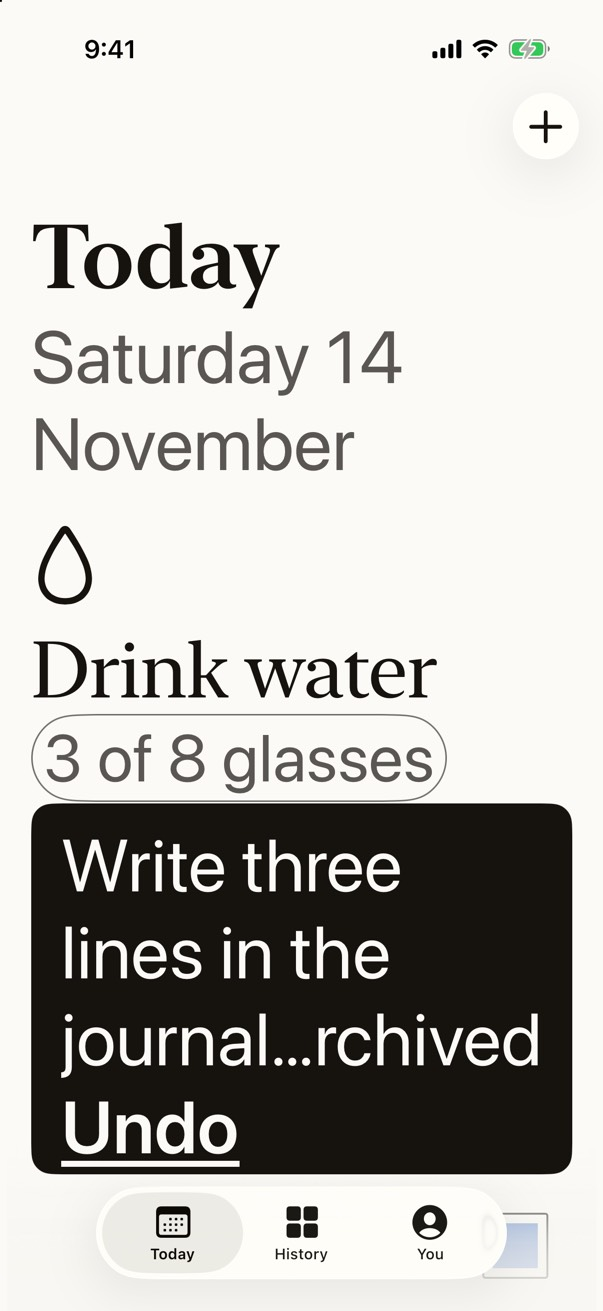
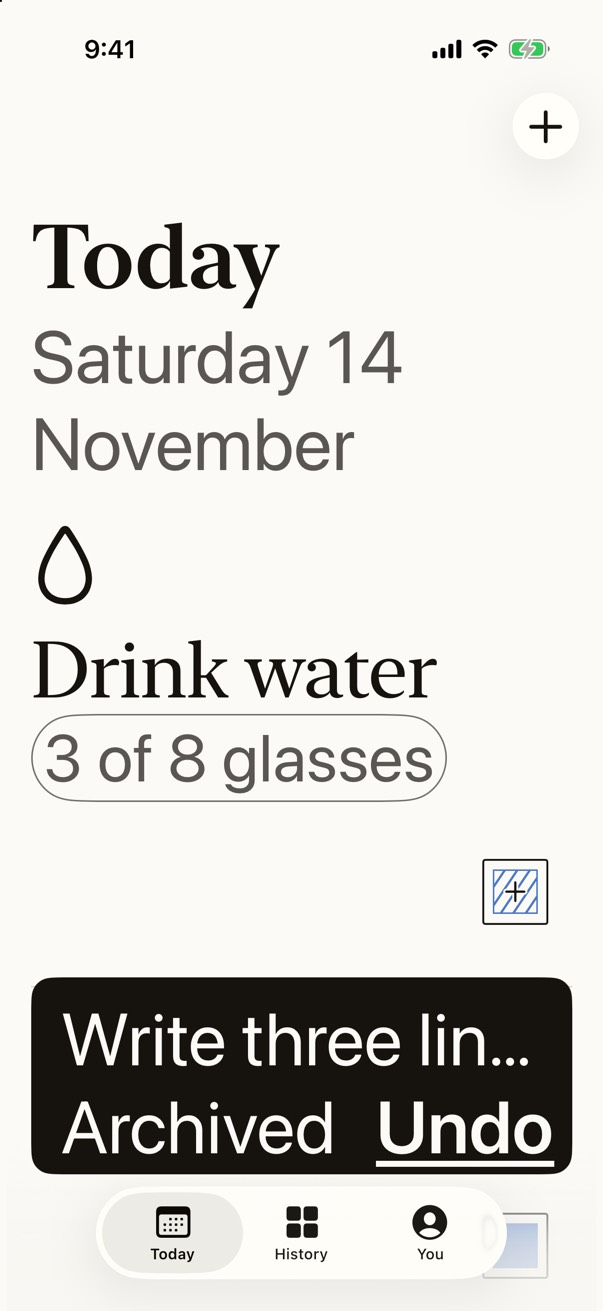
Show the Undo status in full at large sizes
The Undo line carries the habit's name and the status apart. At accessibility
sizes the name takes one line and loses its end. The status always shows, with
Undo beside it or under it. VoiceOver still reads the whole line.
The counted lines become localized formats. "brought back" and each status get
translator comments. Voice Control gets the visible words for the group.
Tests cover the counted Undo line, the Undo target at AX5 and both plural forms.
The spec's swipe sentence names Details, Edit and Archive.

Changed region(s): [[0.0299, 0.6102, 0.9552, 0.9153]]

diff --git a/App/Root/AppModel.swift b/App/Root/AppModel.swift
@@ -5,14 +5,21 @@ import HabitKit
 /// A short line with Undo, shown after a take-back or an archive.
 struct UndoLine: Identifiable {
     let id = UUID()
+    /// The whole line, as shown at standard sizes and read by VoiceOver.
     let message: String
+    /// The habit's name and what happened to it, shown on their own at accessibility sizes.
+    /// Only the name is ever cut, so the status always shows in full.
+    let name: String?
+    let status: String
     /// nil for a line that only informs, such as a failed save.
     let undo: (@MainActor () -> Void)?
     /// The tab the action was made in. The line shows there only, so Undo never acts out of sight.
     var tab: AppTab = .today
 
-    init(message: String, undo: (@MainActor () -> Void)? = nil) {
+    init(message: String, name: String? = nil, status: String? = nil, undo: (@MainActor () -> Void)? = nil) {
         self.message = message
+        self.name = name
+        self.status = status ?? message
         self.undo = undo
     }
 }
@@ -92,23 +99,34 @@ final class AppModel {
             }
             // A take-back, every counted change and any change to a past day show a line with Undo.
             // A yes-or-no log for today shows its mark.
-            let message: String?
+            let message: String?, status: String?
+            let count = CountText.line(total: newTotal, target: habit.rule(on: logDay).target, unit: habit.unit)
             if logDay != clock.today {
                 let date = clock.date(for: logDay).formatted(Date.FormatStyle(timeZone: clock.calendar.timeZone).day().month(.wide).locale(clock.calendar.locale ?? .autoupdatingCurrent))
                 message = switch habit.kind {
                 case .binary: delta < 0
                     ? String(localized: "\(habit.name) cleared, \(date)", comment: "Undo line. The habit's name, then the past day whose log was cleared, for example: Read cleared, 7 November.")
                     : String(localized: "\(habit.name) logged, \(date)", comment: "Undo line. The habit's name, then the past day it was logged for, for example: Read logged, 7 November.")
-                case .counted: "\(date): " + CountText.line(total: newTotal, target: habit.rule(on: logDay).target, unit: habit.unit)
+                case .counted: String(localized: "\(date): \(count)", comment: "Undo line for a counted habit on a past day. The day, then the new total, for example: 7 November: 4 of 8 glasses.")
+                }
+                status = switch habit.kind {
+                case .binary: delta < 0
+                    ? String(localized: "Cleared, \(date)", comment: "Undo line status under the habit's name, at large text sizes. The past day whose log was cleared, for example: Cleared, 7 November.")
+                    : String(localized: "Logged, \(date)", comment: "Undo line status under the habit's name, at large text sizes. The past day it was logged for, for example: Logged, 7 November.")
+                case .counted: message
                 }
             } else {
                 message = switch habit.kind {
                 case .binary: delta < 0 ? String(localized: "\(habit.name) cleared", comment: "Undo line, a status, not a command. The placeholder is the habit's name, for example: Read cleared.") : nil
-                case .counted: "\(habit.name): " + CountText.line(total: newTotal, target: habit.rule(on: logDay).target, unit: habit.unit)
+                case .counted: String(localized: "\(habit.name): \(count)", comment: "Undo line for a counted habit today. The habit's name, then the new total, for example: Drink water: 4 of 8 glasses.")
+                }
+                status = switch habit.kind {
+                case .binary: String(localized: "Cleared", comment: "Undo line status under the habit's name, at large text sizes. A status, not a command.")
+                case .counted: count
                 }
             }
             if let message, let inverse = outcome.inverse {
-                show(UndoLine(message: message) { [weak self] in
+                show(UndoLine(message: message, name: habit.name, status: status) { [weak self] in
                     self?.log(inverse, habit: habit, day: logDay, context: context, clock: clock, undoManager: undoManager)
                 })
             } else {
@@ -120,7 +138,8 @@ final class AppModel {
     func archive(_ habit: Habit, context: ModelContext, clock: HabitClock) {
         habit.archivedAt = clock.now()
         try? context.save()
-        show(UndoLine(message: String(localized: "\(habit.name) archived", comment: "Undo line, a status, not a command. The placeholder is the habit's name, for example: Read archived.")) {
+        show(UndoLine(message: String(localized: "\(habit.name) archived", comment: "Undo line, a status, not a command. The placeholder is the habit's name, for example: Read archived."),
+                      name: habit.name, status: String(localized: "Archived", comment: "Undo line status under the habit's name, at large text sizes. A status, not a command.")) {
             habit.archivedAt = nil
             try? context.save()
         })
@@ -131,7 +150,8 @@ final class AppModel {
         habit.archivedAt = nil
         habit.sortIndex = Ordering.nextIndex(all)
         try? context.save()
-        show(UndoLine(message: String(localized: "\(habit.name) brought back")) {
+        show(UndoLine(message: String(localized: "\(habit.name) brought back", comment: "Undo line, a status, not a command. The placeholder is the habit's name, for example: Read brought back."),
+                      name: habit.name, status: String(localized: "Brought back", comment: "Undo line status under the habit's name, at large text sizes. A status, not a command.")) {
             habit.archivedAt = archivedAt
             habit.sortIndex = sortIndex
             try? context.save()

diff --git a/App/Today/TodayView.swift b/App/Today/TodayView.swift
@@ -92,6 +92,8 @@ struct TodayView: View {
                     .foregroundStyle(style.secondary)
                     .frame(minHeight: 44)
                     .accessibilityElement(children: .ignore)
+                    // Voice Control matches the words on screen.
+                    .accessibilityInputLabels([Text("Not scheduled today")])
                     .accessibilityLabel(Text("Not scheduled today, \(split.notScheduled.count) habits", comment: "VoiceOver label for the group of habits not set for today. The number is how many."))
                 }
                 .listRowBackground(style.paper)
@@ -255,31 +257,39 @@ struct UndoLineView: View {
     @Environment(\.dynamicTypeSize) private var typeSize
 
     var body: some View {
-        // At accessibility sizes Undo sits under the message, so a long name keeps rows in view.
-        let layout = typeSize.isAccessibilitySize ? AnyLayout(VStackLayout(alignment: .leading, spacing: 0)) : AnyLayout(HStackLayout(spacing: 12))
-        layout {
-            // Three lines at most. The middle is cut, so the name's start and the status word stay.
-            // VoiceOver reads the whole line.
-            Text(line.message)
-                .font(style.label(.subheadline))
-                .lineLimit(3)
-                .truncationMode(.middle)
-                .padding(.top, typeSize.isAccessibilitySize ? 10 : 0)
-                .frame(maxWidth: .infinity, alignment: .leading)
-            if let undo = line.undo {
-                Button {
-                    undo()
-                    model.undoLine = nil
-                } label: {
-                    // The frame sits inside the label, so the whole 44-point square takes the tap.
-                    Text("Undo").underline()
-                        .frame(minWidth: 44, minHeight: 44)
-                        .contentShape(Rectangle())
+        Group {
+            if typeSize.isAccessibilitySize, let name = line.name {
+                // The name takes one line and loses its end if it must. The status and Undo share
+                // the next line, so the capsule stays short and what happened always shows in full.
+                VStack(alignment: .leading, spacing: 0) {
+                    Text(name)
+                        .lineLimit(1)
+                        .truncationMode(.tail)
+                        .padding(.top, 10)
+                        .accessibilityHidden(true)
+                    // Undo sits beside the status when both fit on one line, and under it when not,
+                    // so the status is never squeezed into a narrow column.
+                    ViewThatFits(in: .horizontal) {
+                        HStack(spacing: 12) {
+                            status.fixedSize(horizontal: true, vertical: false)
+                            Spacer(minLength: 0)
+                            undoButton
+                        }
+                        VStack(alignment: .leading, spacing: 0) {
+                            status.padding(.top, 4)
+                            undoButton
+                        }
+                    }
                 }
-                .buttonStyle(.plain)
-                .font(style.label(.subheadline, weight: .semibold))
+            } else {
+                HStack(spacing: 12) {
+                    Text(line.message)
+                        .frame(maxWidth: .infinity, alignment: .leading)
+                    undoButton
+                }
             }
         }
+        .font(style.label(.subheadline))
         // Reversed text and paper keep the fixed text contrast in both appearances.
         .foregroundStyle(style.paper)
         .padding(.leading, 20)
@@ -290,6 +300,29 @@ struct UndoLineView: View {
         .padding(.bottom, 8)
         .frame(maxWidth: 393)
     }
+
+    private var status: some View {
+        Text(line.status)
+            .frame(maxWidth: .infinity, alignment: .leading)
+            .accessibilityLabel(Text(verbatim: line.message))
+    }
+
+    @ViewBuilder
+    private var undoButton: some View {
+        if let undo = line.undo {
+            Button {
+                    undo()
+                model.undoLine = nil
+            } label: {
+                // The frame sits inside the label, so the whole 44-point square takes the tap.
+                Text("Undo").underline()
+                    .frame(minWidth: 44, minHeight: 44)
+                    .contentShape(Rectangle())
+            }
+            .buttonStyle(.plain)
+            .font(style.label(.subheadline, weight: .semibold))
+        }
+    }
 }
 
 extension View {
@@ -299,7 +332,7 @@ extension View {
             .moveDisabled(true)
     }
 
-    /// Edit and Archive, the visible way to reach them now that a tap on the name logs.
+    /// Details, Edit and Archive, the visible way to reach them now that a tap on the name logs.
     /// Neither uses the destructive role: the app never picks red, and Archive can be undone.
     func rowSwipeActions(_ actions: HabitRow.Actions) -> some View {
         swipeActions(edge: .trailing, allowsFullSwipe: false) {

diff --git a/AppUITests/TodayUITests.swift b/AppUITests/TodayUITests.swift
@@ -104,6 +104,33 @@ final class TodayUITests: XCTestCase {
         XCTAssertTrue(control("Read").waitForExistence(timeout: 2))
     }
 
+    func testCountedUndoLineShowsTheNewTotalAndTakesItBack() {
+        let water = control("Drink water")
+        XCTAssertTrue(water.waitForExistence(timeout: 5))
+        water.tap()
+        XCTAssertTrue(app.staticTexts["Drink water: 4 of 8 glasses"].waitForExistence(timeout: 2))
+        app.buttons["Undo"].tap()
+        XCTAssertTrue((water.value as? String ?? "").hasPrefix("3 of 8 glasses"))
+    }
+
+    /// At the largest text size the line splits into name and status, and Undo keeps its square.
+    /// The longest name cleared on a past day gives the longest status.
+    func testAtTheLargestSizeTheStatusShowsAndUndoKeepsItsTarget() {
+        app.terminate()
+        app.launchArguments = ["-fixture", "today", "-screen", "undoLongPast",
+                               "-UIPreferredContentSizeCategoryName", "UICTContentSizeCategoryAccessibilityXXXL"]
+        app.launch()
+        let undo = app.buttons["Undo"]
+        XCTAssertTrue(undo.waitForExistence(timeout: 5))
+        let line = app.staticTexts.matching(NSPredicate(format: "label BEGINSWITH %@ AND label CONTAINS %@",
+                                                        "Write three lines in the journal before the day gets going cleared, ", "November")).firstMatch
+        XCTAssertTrue(line.exists, "VoiceOver should read the whole line")
+        XCTAssertGreaterThanOrEqual(undo.frame.height, 44)
+        XCTAssertGreaterThanOrEqual(undo.frame.width, 44)
+        undo.coordinate(withNormalizedOffset: CGVector(dx: 0.5, dy: 0.06)).tap()
+        XCTAssertFalse(undo.waitForExistence(timeout: 1))
+    }
+
     /// The fixture's today is a Saturday, so the weekdays-only habit is not scheduled.
     func testTheNotScheduledGroupReadsItsCountAndOpens() {
         // A button holding the system disclosure triangle. XCUITest does not expose the open state,

diff --git a/HabitKit/Tests/HabitKitTests/SourceChecks.swift b/HabitKit/Tests/HabitKitTests/SourceChecks.swift
@@ -65,6 +65,19 @@ struct SourceChecks {
         #expect(checked > 3, "Too few MarkView calls were found")
     }
 
+    /// The plural VoiceOver label for the "Not scheduled today" group has both English forms.
+    /// The UI test reaches only "one", on the fixture's Saturday.
+    @Test func theNotScheduledLabelHasBothPluralForms() throws {
+        let data = try Data(contentsOf: repoRoot.appending(path: "App/Localizable.xcstrings"))
+        let catalog = try #require(try JSONSerialization.jsonObject(with: data) as? [String: Any])
+        let strings = try #require(catalog["strings"] as? [String: Any])
+        let entry = try #require(strings["Not scheduled today, %lld habits"] as? [String: Any])
+        let plural = try #require(((((entry["localizations"] as? [String: Any])?["en"] as? [String: Any])?["variations"] as? [String: Any])?["plural"]) as? [String: Any])
+        func value(_ form: String) -> String? { ((plural[form] as? [String: Any])?["stringUnit"] as? [String: Any])?["value"] as? String }
+        #expect(value("one") == "Not scheduled today, %lld habit")
+        #expect(value("other") == "Not scheduled today, %lld habits")
+    }
+
     /// Tokens live in the style files only. A view that computes a colour or names a font is a bug.
     @Test func coloursAndFontsAreNamedOnlyInTheStyleFiles() throws {
         // `Color(` as a call, not as the end of a name such as `swatchColor(`.

diff --git a/App/Root/RootView.swift b/App/Root/RootView.swift
@@ -96,6 +96,16 @@ struct RootView: View {
             if let habit = habits.filter({ !$0.isArchived }).max(by: { $0.name.count < $1.name.count }) {
                 model.archive(habit, context: context, clock: clock)
             }
+        case .undoLongPast:
+            // The longest name, cleared on a past day: the line with the longest status.
+            if let habit = habits.filter({ !$0.isArchived }).max(by: { $0.name.count < $1.name.count }) {
+                let day = (1...7).map { clock.today.adding(days: -$0) }.first { habit.total(on: $0) > 0 } ?? clock.today.adding(days: -1)
+                model.log(.tap, habit: habit, day: day, context: context, clock: clock, undoManager: nil)
+            }
+        case .undoCount:
+            if let habit = habits.first(where: { $0.kind == .counted && !$0.isArchived }) {
+                model.log(.tap, habit: habit, day: clock.today, context: context, clock: clock, undoManager: nil)
+            }
         case .history, .historyMonth:
             break
         case .detailWeek, .detailMonth, .detailYear, .detailRuns:

diff --git a/App/Store/LaunchOptions.swift b/App/Store/LaunchOptions.swift
@@ -11,7 +11,7 @@ struct LaunchOptions: Sendable {
     }
 
     enum Screen: String, Sendable {
-        case new, newCount, count, edit, you, appearance, archived, marks, notScheduled, undo, undoLong
+        case new, newCount, count, edit, you, appearance, archived, marks, notScheduled, undo, undoLong, undoLongPast, undoCount
         case history, historyMonth, detailWeek, detailMonth, detailYear, detailEmpty, detailRuns
         case day, dayCount, dayOff, dayDone, export, importPreview, importDone, importNothing, importNotHabit, importNewer, contrast
     }

diff --git a/App/Today/HabitRow.swift b/App/Today/HabitRow.swift
@@ -68,7 +68,7 @@ struct HabitRow: View {
 
     // MARK: Name
 
-    /// A tap on the name or symbol logs, the same as the control. Edit, Archive and Move are in the
+    /// A tap on the name or symbol logs, the same as the control. Details, Edit, Move and Archive are in the
     /// row's menu and its swipe actions. For VoiceOver the name and the control both log and both carry the menu.
     private var nameButton: some View {
         Button { actions.log(.tap) } label: {

diff --git a/docs/reviews/pr7-fixes.md b/docs/reviews/pr7-fixes.md
@@ -1,0 +1,20 @@
+# PR #7 review fixes, on feat/history
+
+Nine lenses reviewed PR #7 and found six items on Today. The lines were the same on `feat/history`, so they were fixed there once, in 988d609. The accessibility, UI and UX, and QA lenses then checked that commit as separate subagents.
+
+## Round 1
+
+| Lens | # | Finding | Result |
+|---|---|---|---|
+| All three | 1 | The middle cut in the Undo line removed part of the status ("journal…rchived"), and could remove a count or the word "cleared" | Fixed. `UndoLine` carries the name and the status apart. At accessibility sizes the name takes one line and loses its end. The status always shows in full, with Undo beside it when both fit and under it when not. VoiceOver reads the whole line. Shots: `ax5-undo-long-paper.jpg`, `ax5-undo-long-past-paper.jpg`, `ax5-undo-count-paper.jpg` |
+| UI and UX, Accessibility | 2 | At AX5 the capsule covered most of the list | Fixed by the split. The archived line is two lines. The longest, a past-day clear, is four including Undo |
+| UI and UX | 3 | The spec and two comments still said the swipe shows Edit and Archive | Fixed. Details, Edit and Archive |
+| UI and UX, Accessibility | 4 | Only the archived line had a long-name screenshot | Fixed. The past-day and counted lines have AX5 shots |
+| UI and UX, QA | 5 | "%@ brought back" had no translator comment | Fixed, and each status has its own comment |
+| Accessibility | 6 | Voice Control may not match "Not scheduled today" against the longer label | Fixed. `.accessibilityInputLabels` names the words on screen. Still to confirm on a device, with gate 3 in findings |
+| Accessibility, QA | 7 | The Undo target was tested only at the default size | Fixed. `testAtTheLargestSizeTheStatusShowsAndUndoKeepsItsTarget` runs at AX5 on the longest status |
+| QA | 8 | The edge tap had never been seen to fail | Checked. With `.contentShape` removed, the default-size test fails (frame 18 points). The AX5 test passes without it, because the word alone is over 44 points there |
+| QA | 9 | No test covered the counted Undo line | Fixed. `testCountedUndoLineShowsTheNewTotalAndTakesItBack` |
+| QA, Accessibility | 10 | The counted lines joined strings outside the catalog | Fixed. Both are localized formats with comments. The wording is unchanged |
+| QA | 11 | Only the "one" plural form was tested | Fixed. `theNotScheduledLabelHasBothPluralForms` reads the catalog |
+| QA | 12 | The working copy of the string catalog is an uncommitted Xcode rewrite with auto-generated comments | Not adopted. It is the owner's open Xcode session. Only the new plural entry was committed. Xcode takes the comments from the source when it extracts |

diff --git a/docs/spec.md b/docs/spec.md
@@ -301,7 +301,7 @@ The day key is an `Int`, yyyymmdd, computed in the user's calendar with a settab
 
 The behavioural scientist, neurodiversity and returning-user lenses reviewed `docs/mockups/png/sheet-m1.png`. The owner defers to the reviews on design, so these are adopted. All four items that were owed are now drawn.
 
-**Reaching Edit and Archive.** A tap on a habit's name logs. A swipe left on a row shows Edit and Archive. Touch and hold on the name opens a menu with Details, Edit, Move and Archive, in that order. VoiceOver offers the same four as actions on the row, with Move up and Move down. The owner decided this on 15 November 2026. The Archived list in You has "Bring back" from milestone 1. After Archive, one line with Undo shows until the next action. The menu is drawn in `sheet-m1.png`.
+**Reaching Edit and Archive.** A tap on a habit's name logs. A swipe left on a row shows Details, Edit and Archive. Touch and hold on the name opens a menu with Details, Edit, Move and Archive, in that order. VoiceOver offers the same four as actions on the row, with Move up and Move down. The owner decided this on 15 November 2026. The Archived list in You has "Bring back" from milestone 1. After Archive, one line with Undo shows until the next action. The menu is drawn in `sheet-m1.png`.
 
 **Order.** Manual reorder is in milestone 1, using the system list edit mode and VoiceOver move actions. Done rows stay where they are, so a row never moves under a thumb.
 
